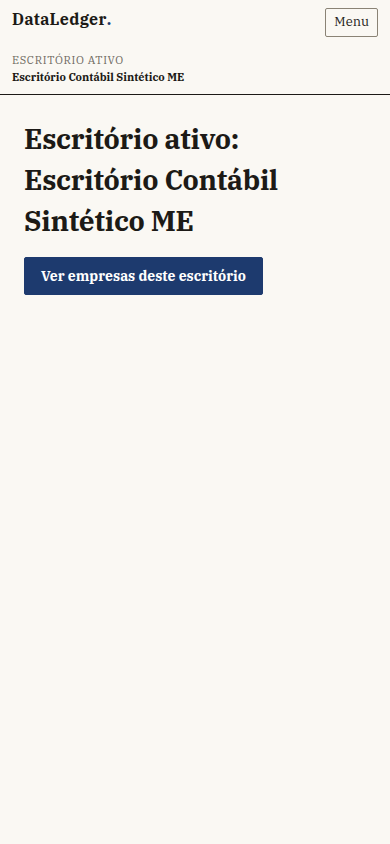
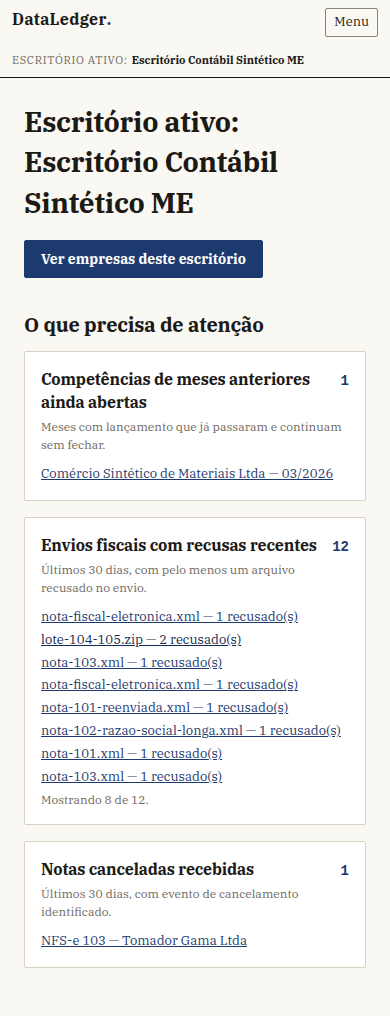
fix(scripts): reparar _PADRAO_MARCA após a barra lateral + recapturar telas DEPOIS
scripts/medir_identificacao_do_emitente.py e o teste irmão: fora do
escopo normal de arquivos desta etapa (não é templates/**, static/** nem
docs/projeto/{direcao-de-arte,mapa-de-telas}.md), mas consertado aqui
porque a reescrita da moldura (commit 8674653) quebrou a guarda —
"_PADRAO_MARCA" procurava `<div class="marca">...<a>TEXTO<span
class="marca__ponto">`, e a DL-042 moveu a classe "marca" para o próprio
`<a>` (dentro da barra lateral, às vezes com um `<span class="rotulo-
menu">` por volta do texto — técnica do recolhimento a ícones). Suíte
completa (`pytest`, não só `apps/`) só revelou isso agora, na 2ª passada.
Autorização: "se uma guarda exigir mudança por nova estrutura, atualize-a
mantendo a propriedade que ela protege" — o padrão novo casa as DUAS
formas reais de `.marca` (barra lateral e cabeçalho móvel), a propriedade
protegida (as duas fontes, <title> e .marca, têm que concordar) não
mudou. A fixture sintética de
test_derivar_marca_do_fornecedor_recusa_quando_titulo_e_marca_divergem
também foi atualizada — sem isso, ela continuaria "passando", mas pelo
motivo ERRADO (caindo no ramo "estrutura não reconhecida" em vez do ramo
"título e marca divergem" que o teste diz provar).

Capturas DEPOIS recapturadas (16 telas × 2 larguras) contra o código
atual — landing/login/cadastro agora DIFERENTES do "antes" (a 1ª passada
tinha deixado essas três de fora por engano); demais telas mostram a
fila de atenção no Painel, o botão "Nova conta" padronizado no Plano de
[…]

diff --git a/scripts/medir_identificacao_do_emitente.py b/scripts/medir_identificacao_do_emitente.py
@@ -232,12 +232,26 @@ _CAMINHO_BASE_HTML = RAIZ / "templates" / "base.html"
 # sem o traço do sufixo).
 _PADRAO_TITULO_PADRAO = re.compile(r"<title>\{% block titulo %\}([^{<]+)\{% endblock %\}")
 
-# `<a href="{% url 'tenancy:painel' %}">DataLedger<span
-# class="marca__ponto">.</span></a>` dentro de `<div class="marca">` —
-# grupo 1 captura o texto entre o fechamento da tag `<a ...>` e o `<span
-# class="marca__ponto">` que seria o ponto final da marca.
+# DL-042 (2ª passada, especialista-frontend): a marca deixou de viver
+# dentro de `<div class="marca">` — a DL-042 moveu o link para dentro da
+# barra lateral, e a CLASSE "marca" passou para o próprio `<a>`
+# (`<a class="marca" href="...">`), com o texto às vezes envolto num
+# `<span class="rotulo-menu">` (técnica de recolhimento da barra a
+# ícones, que precisa poder afastar o RÓTULO da tela sem tocar no
+# ÍCONE). Duas ocorrências reais hoje em templates/base.html: a marca de
+# dentro da barra (com o `<span class="rotulo-menu">` por volta do texto)
+# e a marca do cabeçalho móvel, `<a class="marca marca--movel">` (sem o
+# span — visível só ≤48rem). O padrão casa as DUAS formas: a classe
+# "marca" no `<a>` (nunca mais um `<div>` ancestral — por isso
+# `[^"]*` depois de "marca", para aceitar `marca marca--movel` sem
+# exigir robô à parte para essa variante), com um `<span class="rotulo-
+# menu">` OPCIONAL entre a tag e o texto. Atualizado junto do template,
+# nunca um literal fixo — mesma regra que o docstring de
+# `_derivar_marca_do_fornecedor` já cobra de quem mexer aqui.
 _PADRAO_MARCA = re.compile(
-    r'<div class="marca">.*?<a[^>]*>([^<]+)<span class="marca__ponto">', re.DOTALL
+    r'<a class="marca[^"]*"[^>]*>\s*(?:<span class="rotulo-menu">)?'
+    r'([^<]+)<span class="marca__ponto">',
+    re.DOTALL,
 )
 
 

diff --git a/scripts/test_medir_identificacao_do_emitente.py b/scripts/test_medir_identificacao_do_emitente.py
@@ -1321,13 +1321,21 @@ def test_derivar_marca_do_fornecedor_recusa_quando_titulo_e_marca_divergem(tmp_p
     # nomeando as duas.
     template_fake = tmp_path / "templates"
     template_fake.mkdir()
+    # DL-042 (2ª passada): estrutura atualizada para `<a class="marca">`
+    # (a classe migrou do `<div>` ancestral para o próprio link, dentro da
+    # barra lateral) — mesma migração que `_PADRAO_MARCA` passou a
+    # reconhecer. Sem isso, esta fixture deixaria de casar com o padrão
+    # NOVO por um motivo ERRADO (a marca "não reconhecida", não a
+    # divergência que este teste existe para provar) e cairia no OUTRO
+    # `_recusar` (o de "não reconheço a estrutura"), que também sai com
+    # código 2 — o assert abaixo continuaria passando por acidente, sem
+    # testar o que diz testar (a mesma classe de falso-guarda da lição
+    # BL-271, registrada no docstring do módulo).
     (template_fake / "base.html").write_text(
         "<title>{% block titulo %}Nome1{% endblock %}{% block titulo_sufixo_do_fornecedor %}"
         " — Nome1{% endblock %}</title>\n"
-        '<div class="marca">\n'
-        "    <a href=\"{% url 'tenancy:painel' %}\">Nome2"
-        '<span class="marca__ponto">.</span></a>\n'
-        "</div>\n",
+        '<a class="marca" href="{% url \'tenancy:painel\' %}">Nome2'
+        '<span class="marca__ponto">.</span></a>\n',
         encoding="utf-8",
     )
     monkeypatch.setattr(instrumento, "_CAMINHO_BASE_HTML", template_fake / "base.html")

diff --git a/docs/assets/telas/dl042/comparacao.md b/docs/assets/telas/dl042/comparacao.md
@@ -5,17 +5,25 @@ Capturas para o Fred aprovar a DL-042 antes da integração. Dados sintéticos
 `scripts/semear_base_de_medicao.py`, e documentos fiscais sintéticos de
 `apps/fiscal/tests/xml_sinteticos.py` — nenhum dado real), Chromium,
 26/09/2026. **Antes** é a versão da DL-040 já integrada (commit `41b28f2`,
-ponto de partida desta etapa); **depois** é a proposta da DL-042, ainda não
-integrada.
+ponto de partida desta etapa) — não recapturado na 2ª passada, por pedido do
+arquiteto-senior ("antes continua o de 41b28f2"). **Depois** é a proposta da
+DL-042 completa (2ª passada), recapturada depois de:
 
-A mudança principal está na MOLDURA: a barra SUPERIOR da DL-040 vira barra
-LATERAL esquerda, recolhível para ícones (raciocínio completo em
-[direção de arte §8](../../../projeto/direcao-de-arte.md) e
-[mapa de telas, "Revisão DL-042"](../../../projeto/mapa-de-telas.md)) — por
-isso toda tela autenticada muda, mesmo as que não tiveram alteração de
-conteúdo próprio. Landing, login e cadastro (`registration/public_base.html`)
-não têm captura de "antes" comparável porque não mudaram nesta etapa — ver a
-seção própria ao fim.
+1. Moldura em "L invertido": barra SUPERIOR da DL-040 vira barra LATERAL
+   esquerda, recolhível para ícones (raciocínio completo em
+   [direção de arte §8](../../../projeto/direcao-de-arte.md) e
+   [mapa de telas, "Revisão DL-042"](../../../projeto/mapa-de-telas.md)).
+2. Landing, login e cadastro redesenhados pela referência `fluxos-saas.md`
+   da skill — ver a seção própria ao fim (não são mais pixel-idênticas ao
+   "antes": a 1ª passada desta etapa tinha deixado essas três telas de
+   fora por engano, corrigido nesta rodada).
+3. "Início" como fila do que precisa de atenção (painel) — visível na
+   captura do Painel, abaixo.
+4. Botões e cabeçalho de página padronizados em toda tela do mapa (achados
+   e correções no diagnóstico, mapa-de-telas.md).
+5. Distância do título a 390×844 recuperada para ≤230px sem esconder
+   empresa/período (visível nas capturas de celular do Balancete/Diário/
+   Plano de contas).
 
 ## Painel (Início)
 
@@ -199,20 +207,61 @@ Celular (390 × 844):
 | --- | --- |
 | ![Antes](antes_fiscal_documento_detalhe_390x844.png) | ![Depois](depois_fiscal_documento_detalhe_390x844.png) |
 
-## Landing, login e cadastro
+## Landing
 
-Não mudaram nesta etapa (`registration/public_base.html` sobrescreve
-`{% block moldura %}` inteiro, sem depender da barra lateral) — capturadas
-para o registro ficar completo, mas antes/depois são **pixel-idênticas**
-(confirmado pelo tamanho de arquivo byte a byte igual):
+Reescrita completa pela referência `fluxos-saas.md`: proposta em 5 segundos
+(o que o DataLedger faz HOJE), uma ação primária ("Configurar meu
+ambiente") mais a secundária ("Entrar"), captura REAL do Balancete no
+herói (nunca ilustração abstrata), seção "O que já funciona hoje", grade
+de módulos com selo Disponível/Planejado, seção "Concebido para IA" com
+assistente/MCP marcados Planejados, e FAQ nativa. Paleta "papel e tinta" —
+igual à do produto autenticado — no lugar do painel escuro decorativo da
+DL-034/037.
 
-| Tela | Computador | Celular |
-| --- | --- | --- |
-| Landing | ![Depois](depois_landing_1440x900.png) | ![Depois](depois_landing_390x844.png) |
-| Login | ![Depois](depois_login_1440x900.png) | ![Depois](depois_login_390x844.png) |
-| Cadastro | ![Depois](depois_cadastro_1440x900.png) | ![Depois](depois_cadastro_390x844.png) |
+Computador (1440 × 900):
 
-Avaliação registrada no diagnóstico (mapa-de-telas.md, "Diagnóstico DL-042"):
-já atendem os princípios de `fluxos-saas.md` (uma ação primária, sem
-overclaiming — Fiscal/Folha/IA rotulados "planejado"), então não foram
-redesenhadas — o risco de regressão numa tela já testada superava o ganho.
+| Antes (DL-040/041, não redesenhada) | Depois (DL-042) |
+| --- | --- |
+| ![Antes](antes_landing_1440x900.png) | ![Depois](depois_landing_1440x900.png) |
+
+Celular (390 × 844):
+
+| Antes | Depois |
+| --- | --- |
+| ![Antes](antes_landing_390x844.png) | ![Depois](depois_landing_390x844.png) |
+
+## Login
+
+Cartão único centralizado sobre o fundo "papel" do produto, no lugar do
+painel escuro decorativo — preserva o link para cadastro e o texto "Criar
+ambiente para meu escritório" (contrato de
+`apps/accounts/tests/test_signup.py`).
+
+Computador (1440 × 900):
+
+| Antes | Depois |
+| --- | --- |
+| ![Antes](antes_login_1440x900.png) | ![Depois](depois_login_1440x900.png) |
+
+Celular (390 × 844):
+
+| Antes | Depois |
+| --- | --- |
+| ![Antes](antes_login_390x844.png) | ![Depois](depois_login_390x844.png) |
+
+## Cadastro
+
+Mesmo cartão único; o formulário continua percorrendo
+`form.visible_fields` sem hardcodar campo — nenhuma mudança de contrato.
+
+Computador (1440 × 900):
+
+| Antes | Depois |
+| --- | --- |
+| ![Antes](antes_cadastro_1440x900.png) | ![Depois](depois_cadastro_1440x900.png) |
+
+Celular (390 × 844):
+
+| Antes | Depois |
+| --- | --- |
+| ![Antes](antes_cadastro_390x844.png) | ![Depois](depois_cadastro_390x844.png) |
